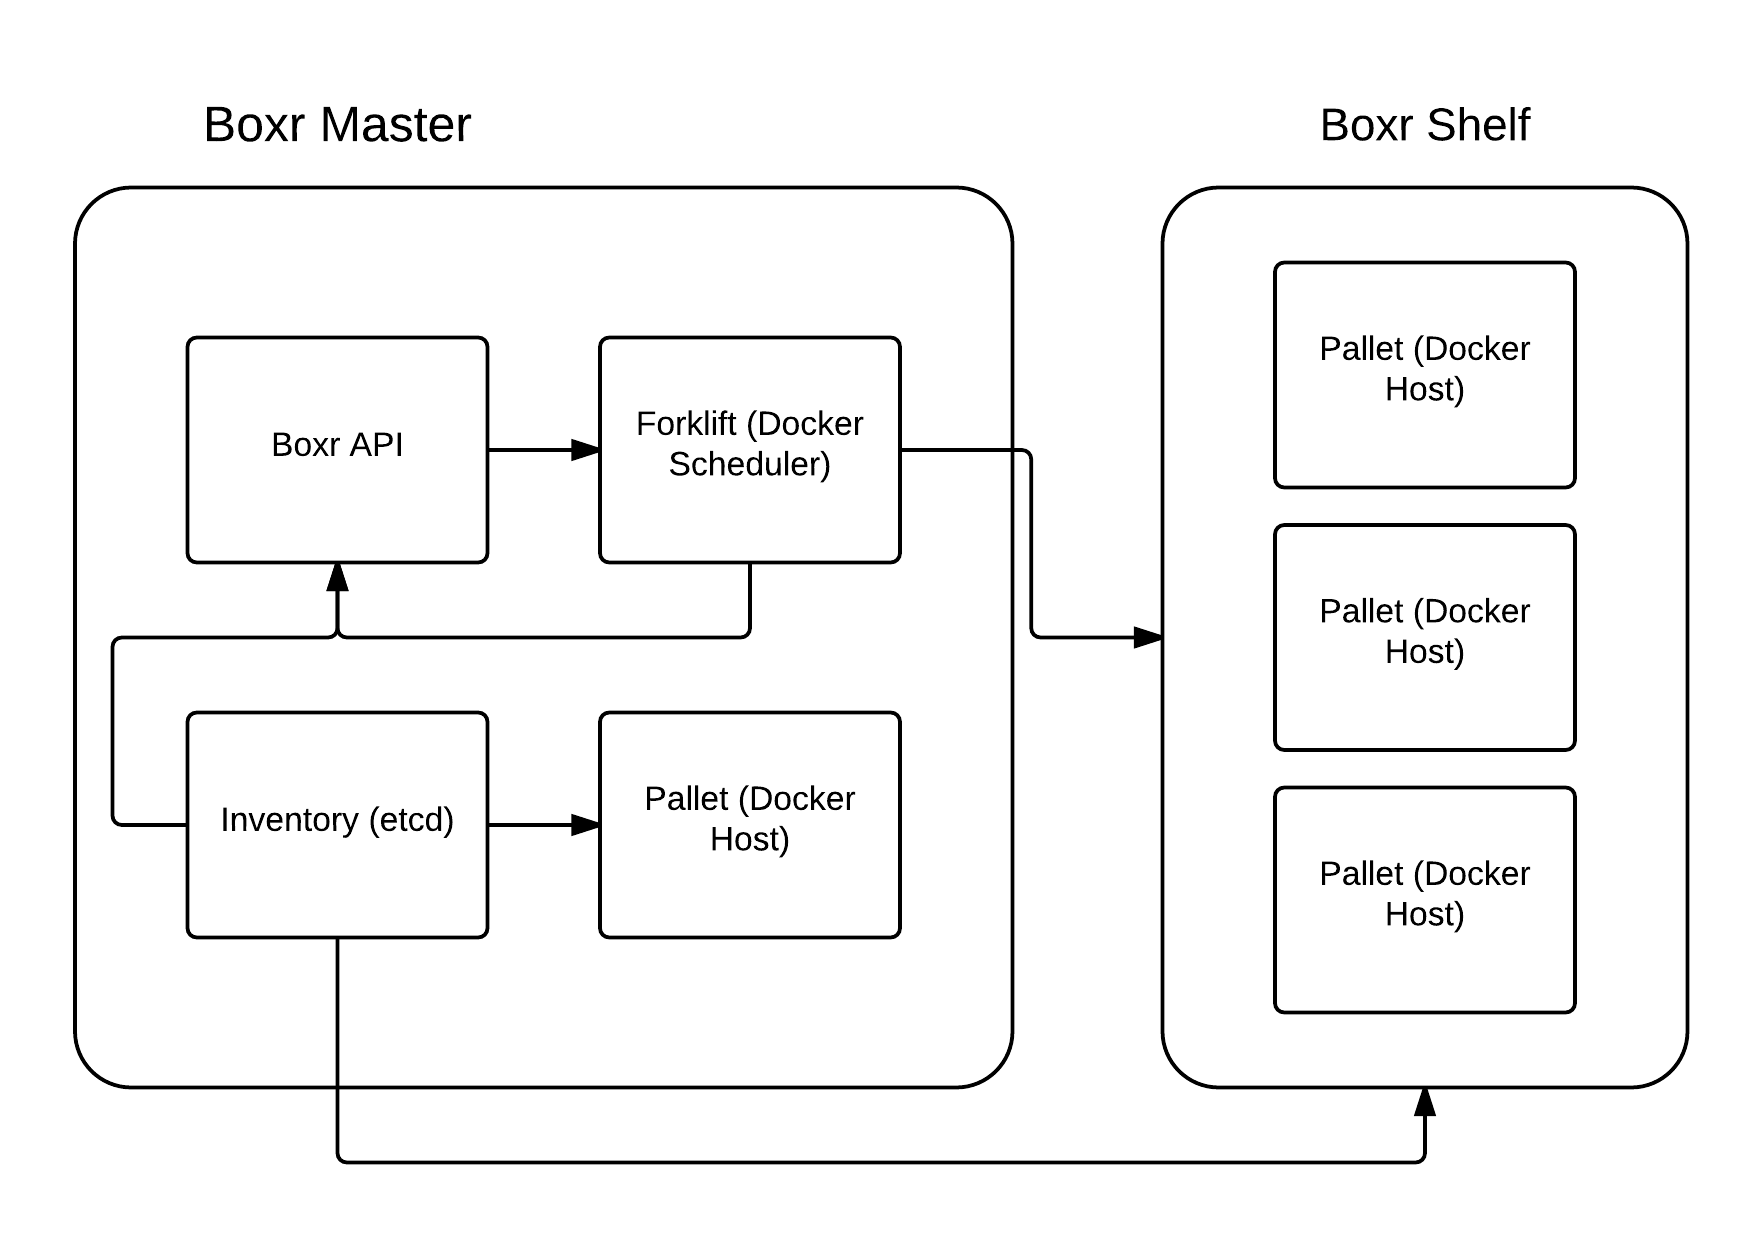
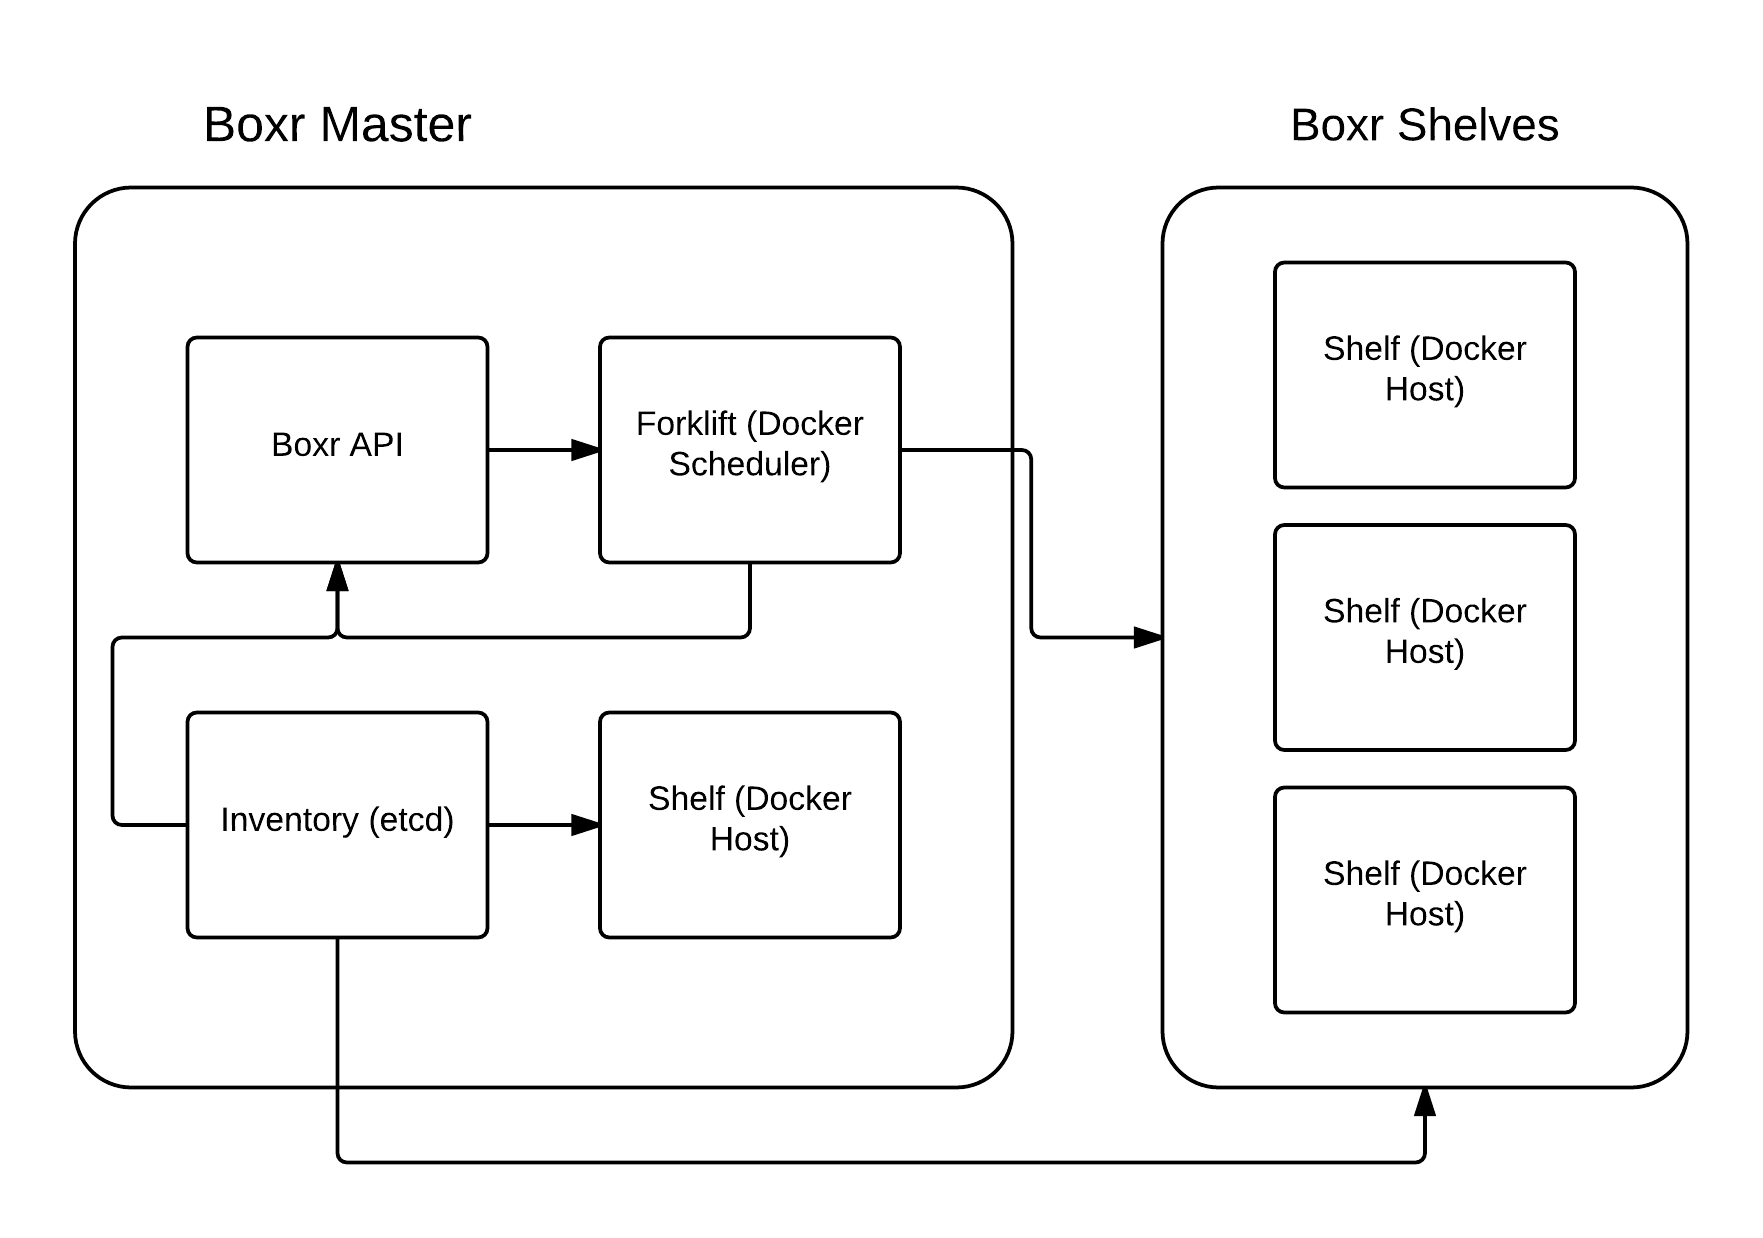
more docs

diff --git a/Docs/README.md b/Docs/README.md
@@ -1,3 +1,28 @@
 # Boxr Introduction
 
 ![flow chart](boxr-flow-diagram.png)
+
+# The Parts
+
+## Shelves
+
+A shelf is essentially a docker host with the shelf deamon running on it 
+giving [Forklift](#forklift) access to the hosts stats as well as manage the [Boxes](#box)
+running on the host.
+
+## Pallet 
+
+A pallet is a complete set of boxes need to run an app this includes the 
+app box and the services it depends on (not replicas of these machines).
+
+## Box
+
+A box is exactly what it sounds like, it's the individual machines that 
+are needed to fill a pallet. In other words "Docker Containers".
+
+## Forklift
+
+The Forklift is the service that is in charge of creating and managing 
+[Pallets](#pallet) it accomplishes this by monitoring existing boxes as well as 
+determining resources need to run future boxes.
+

diff --git a/README.md b/README.md
@@ -11,7 +11,7 @@ of features that are coming your way in 3..2..1..
 - Monitors your apps and warns you about a failing app
 - Apps (Boxes) can depend on others which will be scaled with the app
 
-
+[flow chart](Docs/boxr-flow-diagram.png)
 
 
 
